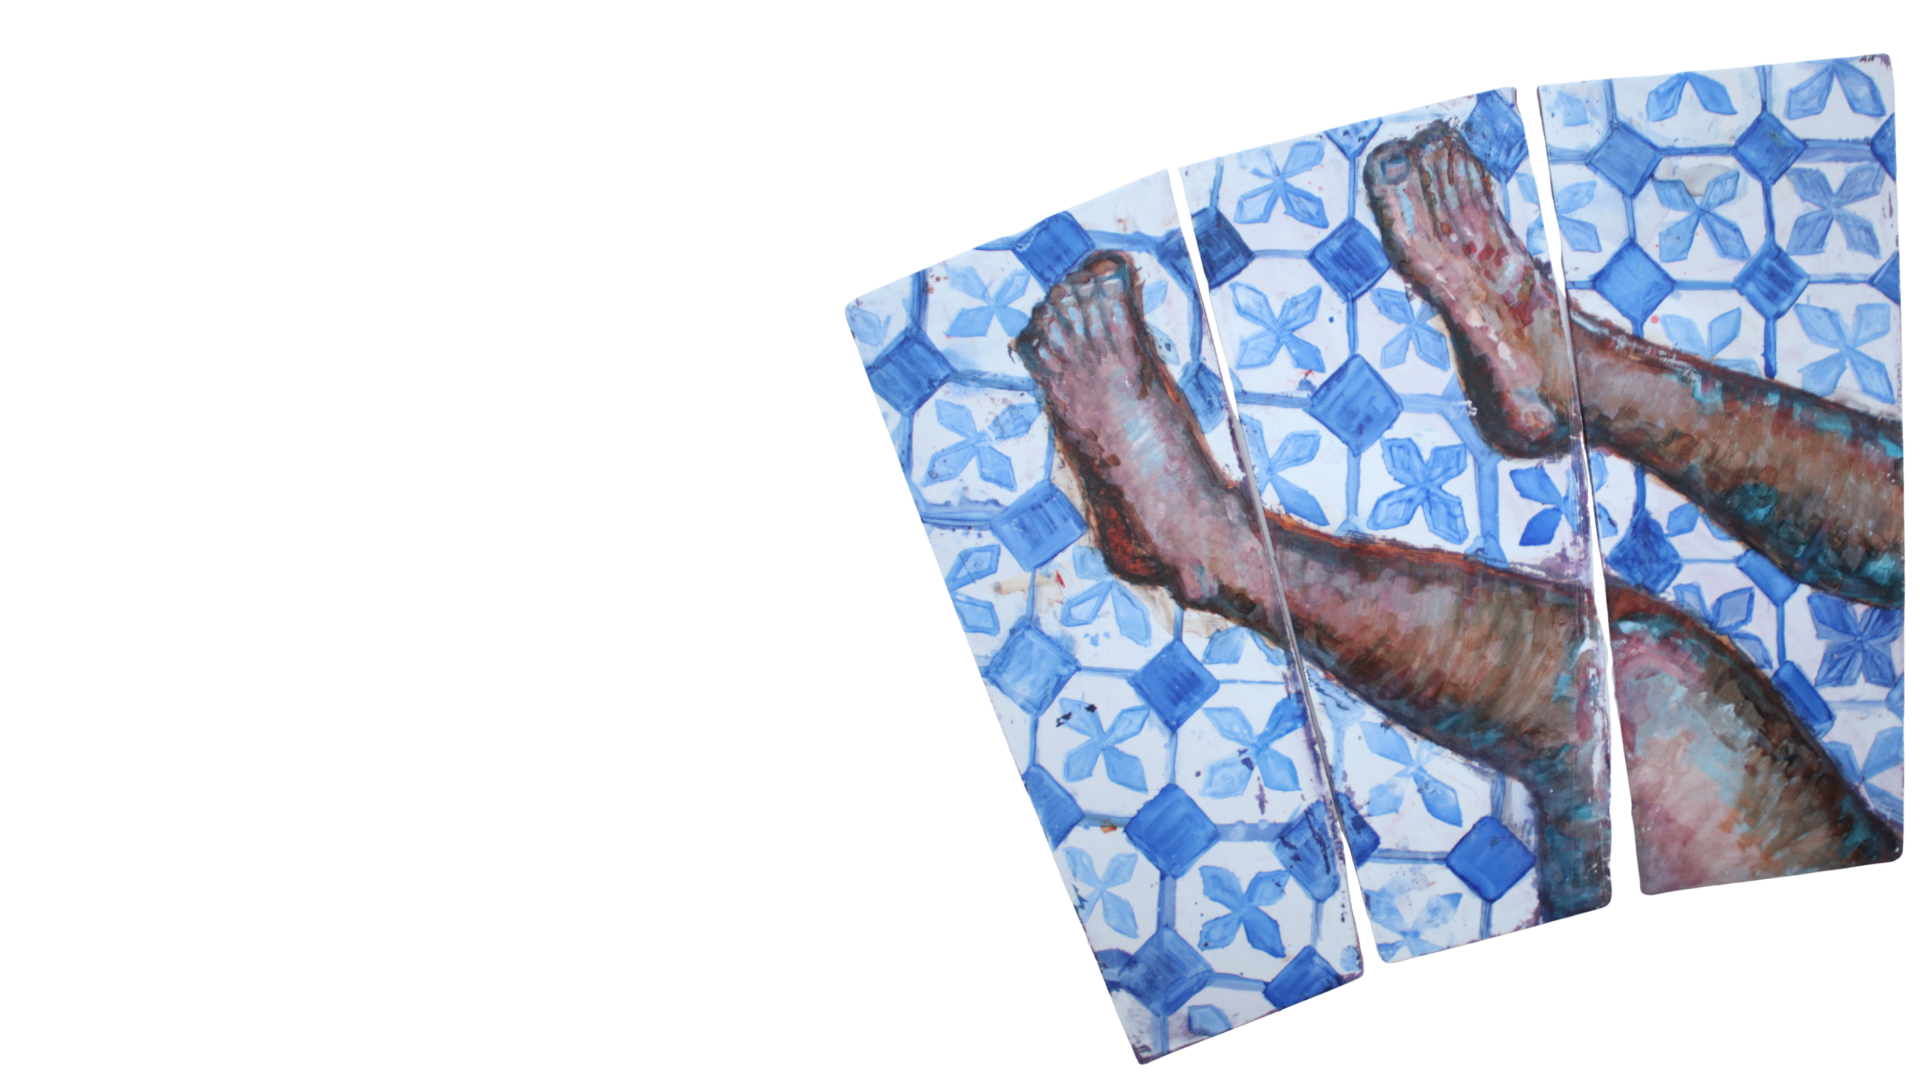
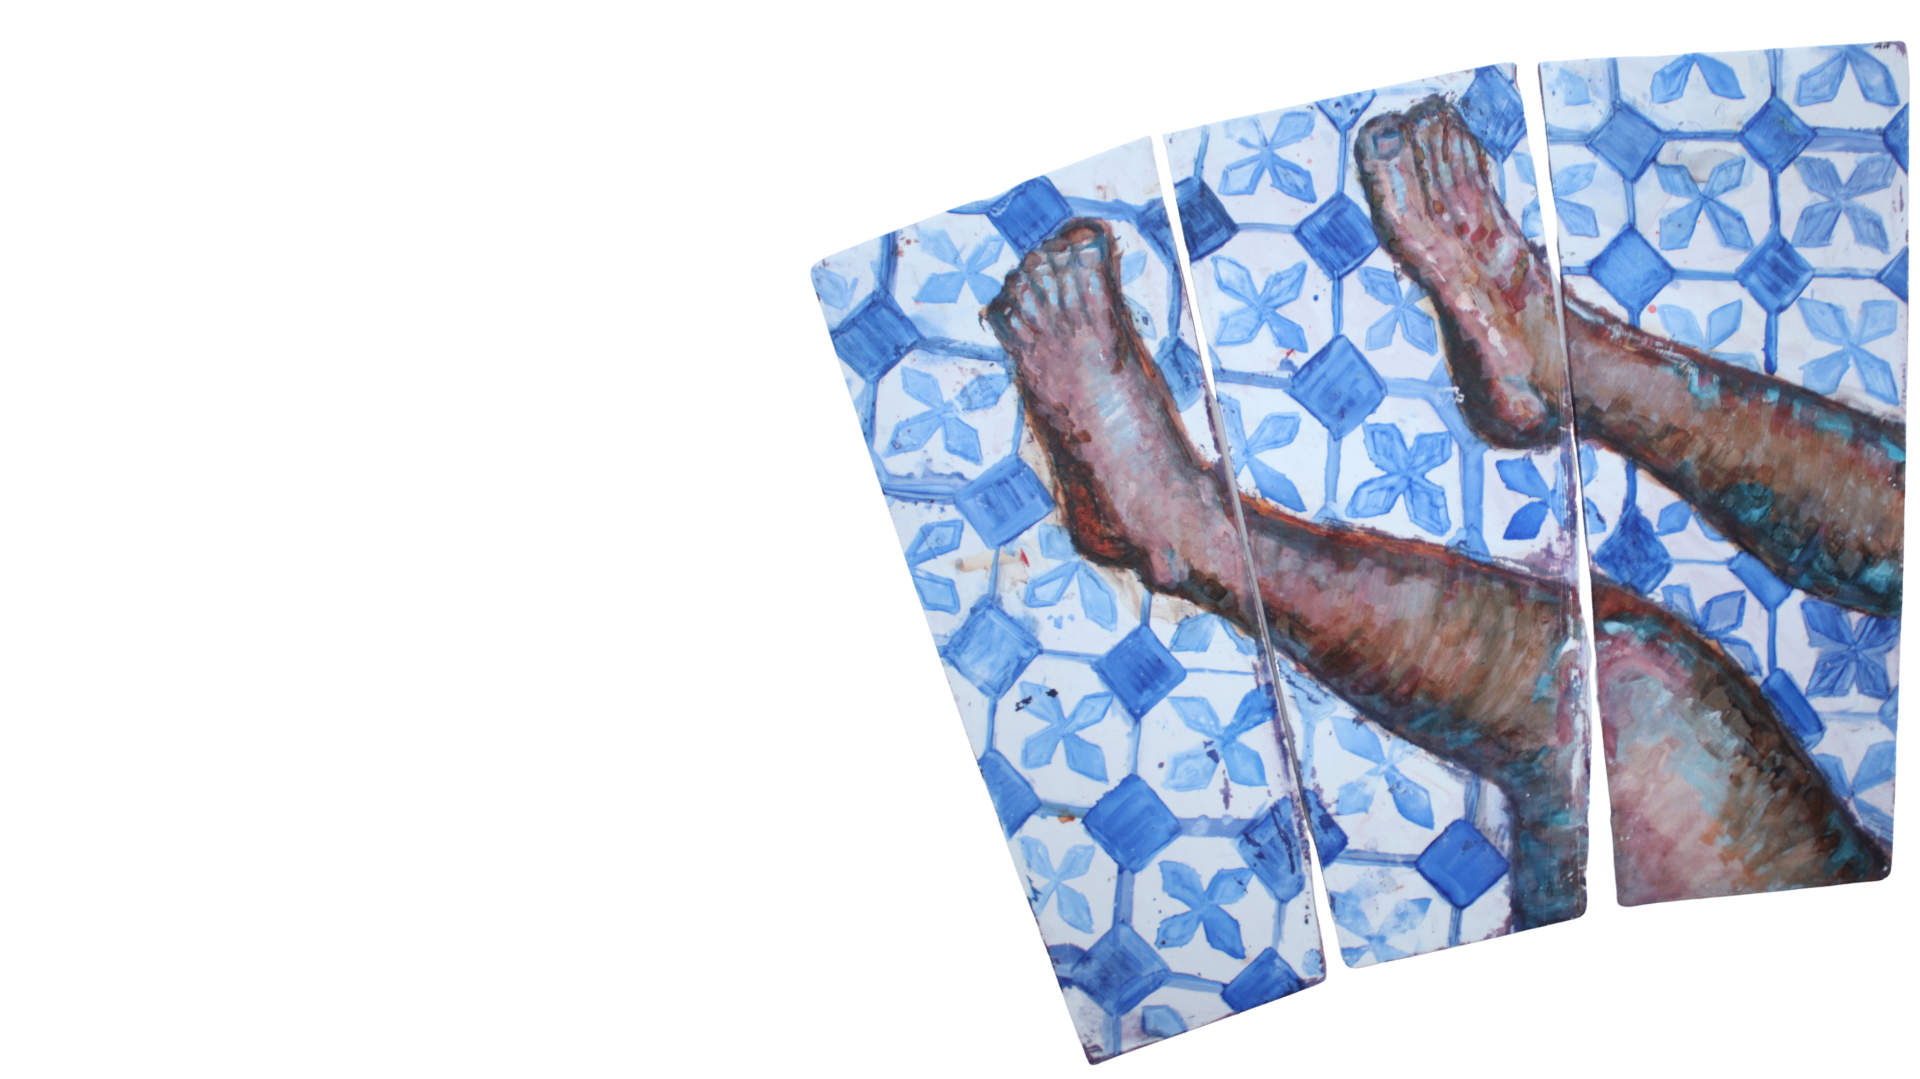
Changes

Changed region(s): [[0.4062, 0.0306, 1.0, 1.0]]

diff --git a/src/components/MasonryGallery.tsx b/src/components/MasonryGallery.tsx
@@ -48,7 +48,7 @@ const MasonryItem: React.FC<MasonryItemProps> = ({ artwork, onClick }) => {
 
   return (
     <div
-      className="group relative cursor-pointer overflow-hidden rounded-lg break-inside-avoid mb-4 md:mb-6"
+      className="group relative cursor-pointer overflow-hidden rounded-lg"
       onClick={() => onClick(artwork)}
       onMouseEnter={() => setIsHovered(true)}
       onMouseLeave={() => setIsHovered(false)}
@@ -106,13 +106,17 @@ const MasonryItem: React.FC<MasonryItemProps> = ({ artwork, onClick }) => {
 
 const MasonryGallery: React.FC<MasonryGalleryProps> = ({ artworks, onArtworkClick }) => {
   return (
-    <div className="columns-1 sm:columns-2 lg:columns-3 gap-4 md:gap-6">
+    <div className="flex flex-col items-end gap-8 md:gap-12">
       {artworks.map((artwork) => (
-        <MasonryItem
-          key={artwork.id}
-          artwork={artwork}
-          onClick={onArtworkClick}
-        />
+        <div 
+          key={artwork.id} 
+          className="w-full sm:w-4/5 md:w-3/4 lg:w-2/3 xl:w-1/2"
+        >
+          <MasonryItem
+            artwork={artwork}
+            onClick={onArtworkClick}
+          />
+        </div>
       ))}
     </div>
   );
